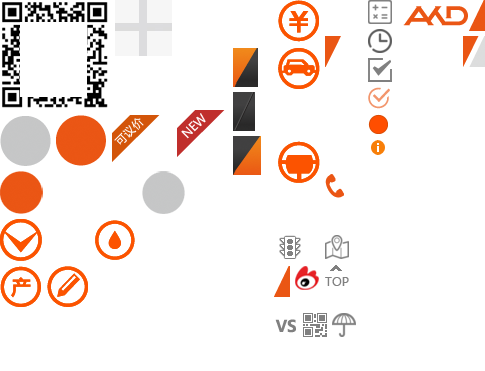
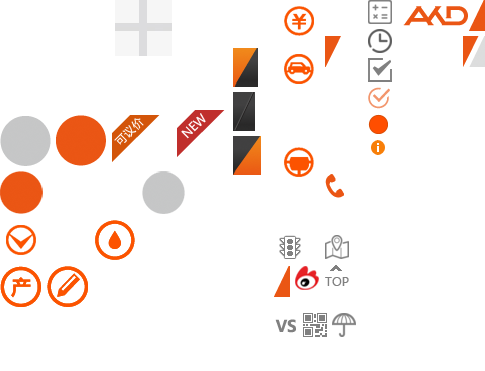
修改

diff --git a/templates/default/default/css/index.css b/templates/default/default/css/index.css
@@ -246,19 +246,19 @@ background: url("../image/4s_03.png") no-repeat;
 }
 
 #icon_01 {
-	background-position: -278px -141px;	
+	background-position: -279px -141px;	
 }
 
 #icon_02 {
-	background-position: -278px 0;	
+	background-position: -279px 0;	
 }
 
 #icon_03 {
-	background-position: -278px -47px;	
+	background-position: -279px -47px;	
 }
 
 #icon_04 {
-	background-position: 0 -219px;	
+	background-position: -1 -219px;	
 }
 
 
